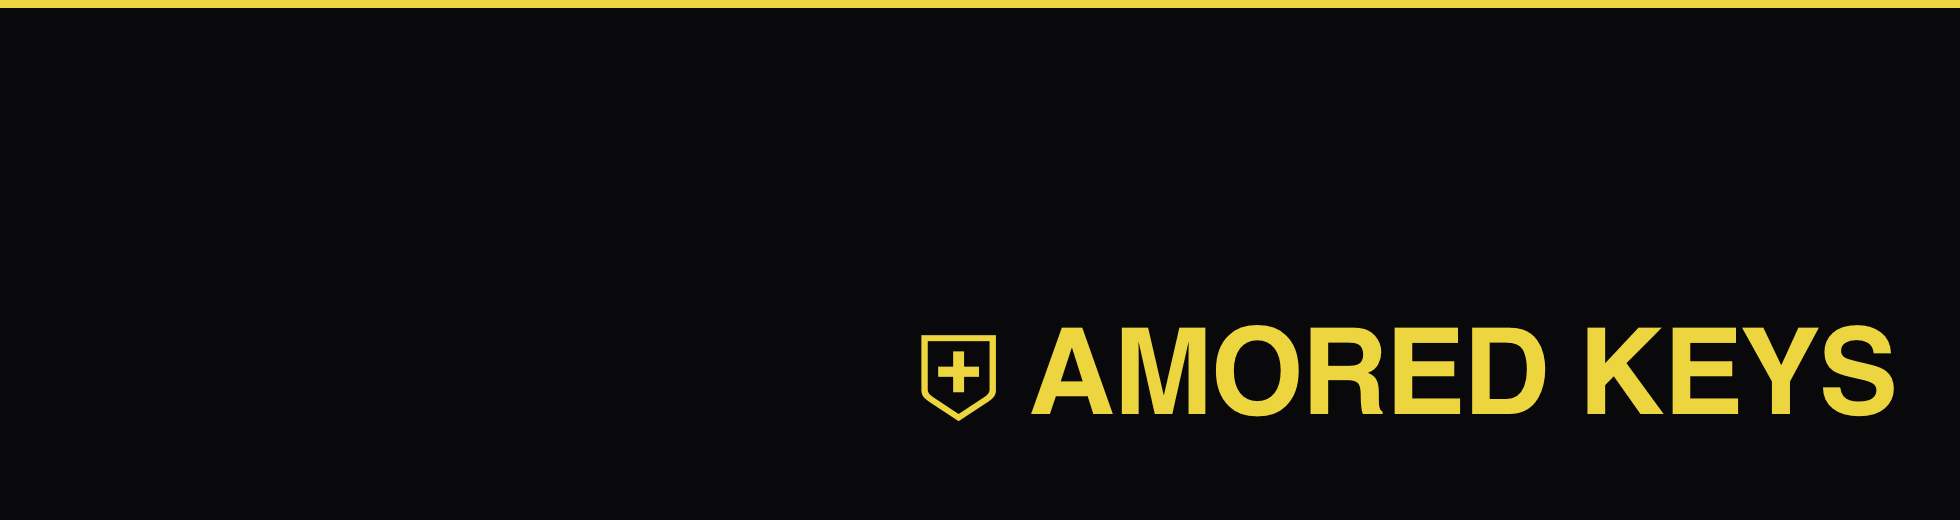
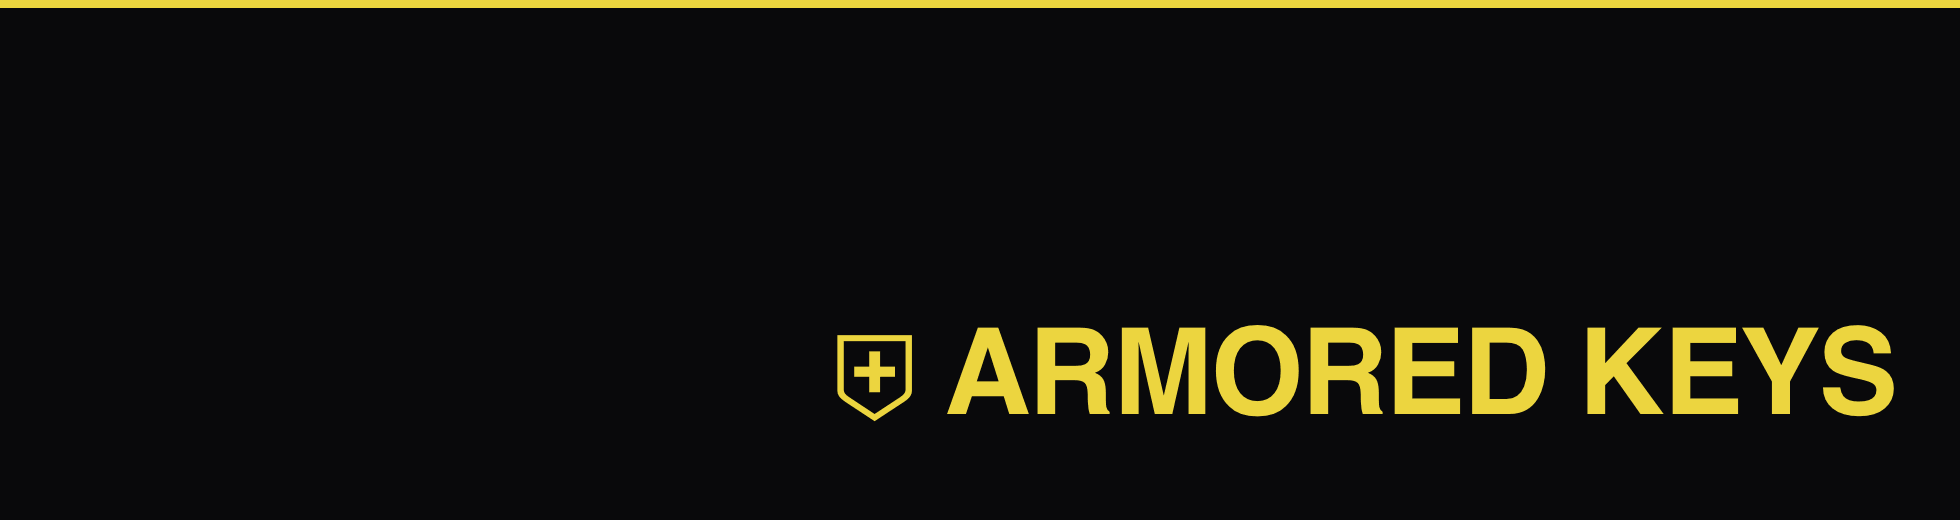
fix

Changed region(s): [[0.4046, 0.6154, 0.5913, 0.8]]

diff --git a/vlt/index.md b/vlt/index.md
@@ -343,7 +343,7 @@ image: "/assets/img/og-image-ops.png"
     if (event.defaultPrevented) return;
     if (event.ctrlKey || event.metaKey || event.altKey) return;
     if (isTextInputTarget(event.target)) return;
-    if (String(event.key).toLowerCase() !== 'a') return;
+    if (String(event.key).toLowerCase() !== 'l') return;
 
     const anchorX = window.matchMedia('(max-width: 767px)').matches ? 0.5 : 0.68;
     fireStrike(1, { anchorX, anchorSpread: 0.12 });